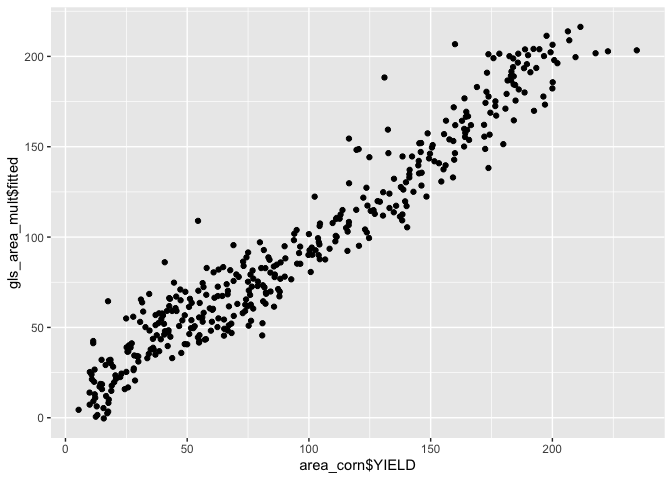
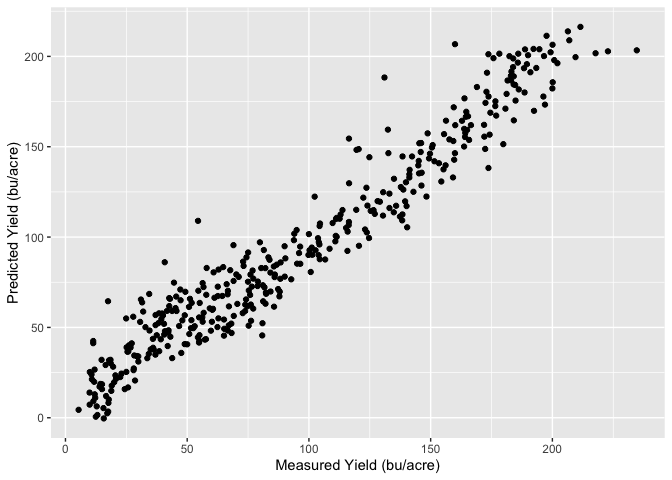
edit the post to make it blog friendly

Changed region(s): [[0.4062, 0.9375, 0.6562, 1.0], [0.0, 0.2812, 0.0312, 0.625]]

diff --git a/content/posts/corn_yields.md b/content/posts/corn_yields.md
@@ -1,5 +1,5 @@
 ---
-title: "Corn Yields"
+title: "US Corn Yields"
 name: corn-yields
 theme: Toha
 date: 2022-03-26
@@ -13,157 +13,116 @@ math: true
 
 ## Summary
 
-I wanted to take a look at corn yields and how they were effected by
-variables in data that I could find. Luckily the
-[USDA](https://quickstats.nass.usda.gov/api) has a relatively extensive
-dataset on crop production and yields by state and also includes
-information such as if the crops were irrigated or not. They have a
-query tool which I used to get the data located in `data/USDA/corn.csv`
-which I reference below and is available in the repo. They also have a
-query tool that I may attempt to make more use of in the future. With
-the data given I wanted to understand how the corn yields have changed
-over time, and given the information I was able to find, what variables
-were important factors for corn yields (what area and if the land was
-irrigated or not).
+Because I grew up on a farm and have always been interested in agriculture, I wanted to take a look at corn yields and how they were effected by variables in data that I could find. Luckily the [USDA](https://quickstats.nass.usda.gov/api) has a relatively extensive dataset on crop production and yields by state and also includes information such as if the crops were irrigated or not. They have a query tool which I used to get the raw data which is also available in this [GitHub repo](https://github.com/murrayrodney/Crop-Yields). They also have an API that I may attempt to make more use of in the future. With the data gathered I wanted to understand how the corn yields have changed over time and what variables were important for corn yields (what area and if the land was irrigated or not).
 
-I will also mention that analyzing this data was a good way for me to
-practice methods that I learned in my regression analysis, so as you see
-a strong focus on linear models in this analysis.
+I would also like also mention that analyzing this data was a good way for me to practice methods that I learned in my regression analysis, hence the strong focus on linear models in this analysis.
 
-## Data Loading
+If you would like to see the code for the analysis, you can go to my [GitHub repo](https://github.com/murrayrodney/Crop-Yields). For this post, I will leave the code out and we will focus on the methodology and results
 
-First I load the data and filter such that we are looking for entries
-related to irrigated (or non-irrigated) grain corn.
+## Data Exploration
 
-Next we do some reprocessing such as separating out the description to
-get the data we need on if it was irrigated or not, and what the measure
-was. Then we pivot the data so it is easier to do some calculations with
-the area and production volumes (bushels).
-
-Next we will plot the production and yield.
+After preparing the data so (splitting strings, and some pivoting) we can take a look at the corn yields for the states which the USDA has data available for. Note that the data I used had production in bushels and acres harvested, which I used to calculate the yield in bushels per acre (bu/acre). The raw data gave these measures for each state per year where I had queried for data after 1950. The data also specified if the grain corn was grown on irrigated or non-irrigated land.
 
 ![image](/posts/corn_yields/unnamed-chunk-5-2.png) 
 
-From
-the two plots above it is amazing to see how the grain production and
-yields have improved over time! Because there are quite a few states, I
-will group some states which I think more alike (places like Wyoming,
-Montana and Idaho vs. Nebraska and Kansas). It is likely that there
-could be other methods used to find groupings which maximize the
-differences between each group of states; this was not used in this
-analysis and I will move forward with my intuition which as you will see
-will be quite subjective). You will also see that I move forward with
-using yields (bu/acre) so that we can get a measure of how efficiently
-we are able to produce corn for a given unit of area.
+From the plot above we can see that the grain corn yields have improved dramatically over time! Because there are quite a few states, I will group some states which I think more alike (places like Wyoming, Montana and Idaho vs. Nebraska and Kansas). It is likely that there could be other methods used to find groupings which maximize the differences between each group of states; this was not used in this analysis as I was focused on regression analysis and I will use my intuition in this case. 
 
-## Data Aggregation
+### Data Aggregation
 
-![](/posts/corn_yields/unnamed-chunk-6-1.png) \###
-Visual analysis Now that we have things grouped, we should note how
-similar the areas are for yields where the land is irrigated after 1980
-while there are some differences prior to 1980. It is also interesting
-to note how different each areas non-irrigated acreage performs (my
-guess would be due to rainfall amounts and potentially temperatures).
-Also note how the yields for the non-irrigated acreage appears
-significantly lower than that of the irrigated acreage, this should not
-be surprising.
+I will group the states according to this table:
 
-Let’s use a linear regression model to see if we can parse out the
-effects of the area, irrigation, and time.
+|    State     |   Area   |
+| :----------: | :------: |
+|   Colorado   | MTN_WEST |
+|   Wyoming    | MTN_WEST |
+|    Idaho     | MTN_WEST |
+|   Montana    | MTN_WEST |
+|  New Mexico  |  SOUTH   |
+|    Texas     |  SOUTH   |
+|   Oklahoma   |  SOUTH   |
+|   Nebraska   | MID_WEST |
+|    Kasas     | MID_WEST |
+| South Dakota | MID_WEST |
+| North Dakota | MID_WEST |
+|   Delaware   |   EAST   |
 
-**Confounders!** Something to be aware of as we move forward is that
-time, or specifically, the year that the corn was planted and harvested
-appears to have a large effect on the yields. There is no physical
-reason why corn with all the same treatments (irrigation, fertilization,
-pest control, etc.) would yield more grain in 2020 in comparison to
-1980. I say this because there are many confounding variables that are
-not present in this data set such as fertilization, pest control, crop
-rotation practices which have increase yields over time as we have
-continually discovered better farming methods to increase the yields of
-our crops. This presents a spurious relationship between the year that
-the crop was planted and harvested and the observed yeilds.
+![](/posts/corn_yields/unnamed-chunk-6-1.png)
 
-## Regression Modeling (OLS)
+Now that we grouped states based on my perceived similarity we can see some of the trends and differences a little easier. We should note how similar the areas are for yields where the land is irrigated after 1980 while there are some differences prior to 1980. It is also interesting to note how different each areas non-irrigated acreage performs (my guess would be due to rainfall amounts and potentially temperatures). Also note how the yields for the non-irrigated acreage appears significantly lower than that of the irrigated acreage, this should not be surprising.  Another observation to take stock of is the short period of time that the Eastern states (really just one - Delaware) have data available for; we could remove this, but I will leave it in for now with the reminder to look at the standard errors in our model. Now let’s use a linear regression model to see if we can parse out the effects of the area, irrigation, and time.
 
-First a linear regression model with the ordinary least squares (OLS)
-method will be fit. In this case our model will look like
+> :warning: **Confounders!** Something to be aware of as we move forward is that time, or specifically, the year that the corn was planted and harvested appears to have a large effect on the yields. There is no physical reason why corn with all the same treatments (irrigation, fertilization, pest control, etc.) would yield more grain in 2020 in comparison to 1980. I say this because there are many confounding variables that are not present in this data set such as fertilizer use, pest control, and crop rotation practices which have increase yields over time as we have continually discovered better farming methods to increase the yields of our crops. This presents a spurious relationship between the year that the crop was planted and harvested and the observed yeilds.
+
+## Ordinary Least Squares (OLS) Regression
+
+When we think of regression, OLS is the method we are typically thinking of. I will start with a simple model which follows the equation written below
 
 $$
-Yield = \beta_0 + \beta_1 Area + \beta_1 Irrigated + \beta_1 Year + \epsilon
+Yield = \beta_0 + \beta_1 Area + \beta_2 Irrigated + \beta_3 Year + \epsilon
 $$
 
-Where the expectation of \\(\epsilon\\) is 0 (\\(E[\epsilon]=0\\)) and the variance of
-\\(\epsilon\\) is \\(\sigma^2\\) (\\(Var(\epsilon)=\sigma^2\\)).
+Where the expectation of \\(\epsilon\\) is 0 (\\(E[\epsilon]=0\\)) and the variance of \\(\epsilon\\) is \\(\sigma^2\\) (\\(Var(\epsilon)=\sigma^2\\)).  
 
+In this case \\(Area\\) is a categorical variable with four levels corresponding to each of the areas listed in the table above. \\(Irrigated\\) is also a categorical variable, but with only two levels equating to `True` and `False`. In R the \\(Area\\) variable will be split into 3 dummy variables each with the values `True` and `False` (we only need n-1 dummys to fully specify n levels in a categorical variable) and a different coefficient will be calculated for each dummy variable. We can also think about our estimates \\(\hat{\beta}_1\\) and  \\(\hat{\beta}_2\\) changing based on the values for \\(Area\\) and  \\(Irrigated\\). Something I will give for you to think about is how the model changes with different values for \\(Area\\) and \\(Irrigated\\) (hint: can we write out several different models?).
 
-Something to notice is that we have not stated anything about the
-distribution of any of the parameters in the model. Two key assumptions
-that we currently have and will have to verify is that our samples are
-independent \\(corr(\epsilon_i, \epsilon_j)=0\\) where \\(i\not=j\\) and the variance is constant.
+Something to notice in the model stated is that we have not yet stated anything about the distribution of any of the parameters in the model, which is okay at this point. Two key assumptions we currently have and will have to verify is that our samples are independent (\\(corr(\epsilon_i, \epsilon_j)=0\\) where \\(i\not=j\\)) and the variance is constant.
 
-With that said you will see summaries of the model which will include
-plenty of t-tests and F-tests on the model and coefficients as well as
-confidence intervals. For these to be valid we need to assume (and
-verify) that our residuals are normally distributed such that \\(\epsilon \sim N(0,\sigma^2)\\).
-
+With that said you will see summaries of the model which will include plenty of t-tests and F-tests on the model and coefficients as well as confidence intervals. For these to be valid we need to assume (and verify) that our residuals are normally distributed such that \\(\epsilon \sim N(0,\sigma^2)\\). 
 ### Additive Model
-![](/posts/corn_yields/unnamed-chunk-7-1.png)![](/posts/corn_yields/unnamed-chunk-7-2.png)![](/posts/corn_yields/unnamed-chunk-7-3.png)![](/posts/corn_yields/unnamed-chunk-7-4.png)
 
+Once I fit the model, we need to take a look at our assumptions, one of the first things to look at is a scatter plot of the residuals vs. the fitted values. Do you see anything worrisome?
 
-![](/posts/corn_yields/unnamed-chunk-7-5.png) From
-the plots above we it appears the model does a reasonable job of
-predicting the yield, however the residual plots show that there
-certainly is room for improvement. We have some trends in the mean of
-the residuals vs. the predicted values and the QQ plot shows that they
-are not normally distributed around the mean. There may also be some
-issues with the assumption around constant variance, and if we look
-closely at the plots above showing the production and yields over time
-we may suspect that the residuals are correlated and not independent.
-This means we’re breaking a lot, if not all, of our assumptions. Lets
-see if we can get in a little better position by allowing the
-categorical variables to have a multiplicative influence instead (so
-they can change the slope of the line) instead of having only an
-additive influence which allows them to only change the intercept.
+![](/posts/corn_yields/unnamed-chunk-7-1.png)
+
+Here it looks to me as if there is a trend in the mean of the residuals, indicating to me that we either need to consider some transformations or other terms in the model. So, our \\(E[\epsilon]=0\\) assumption is not true. It also appears to me that the variance in our residuals is not constant, breaking another assumption. Lets see if our risiduals are normally distributed, we will use a [QQ-plot](https://en.wikipedia.org/wiki/Q%E2%80%93Q_plot) to diagnose this (I would expect the points to lie on a straight line).
+
+![](/posts/corn_yields/unnamed-chunk-7-2.png)
+
+Unfortunately it looks like our points are not quite normally distributed either. Lets see how well we are predicting the yeilds with our current model, to do this I will look at a plot of the predicted yields vs. the measured yields.
+
+![](/posts/corn_yields/unnamed-chunk-7-5.png)
+
+From this plot it looks like our model isn't doing too horrible; we can see some of the effects from our residuals, but if we can take care of our assumptions we appear to be on the right track.
+
+In summary the plots above show the model does a reasonable job of predicting the yield, however the residual plots show that there certainly is room for improvement. We have some trends in the mean of the residuals vs. the predicted values and the QQ plot shows that they are not normally distributed around the mean. There may also be some issues with the assumption around constant variance, and if we look closely at the plots above showing the production and yields over time we may suspect that the residuals are correlated and not independent. This means we’re breaking a lot, if not all, of our assumptions. Lets see if we can get in a little better position by allowing the categorical variables to have a multiplicative influence instead (so they can change the slope of the line) instead of having only an additive influence which allows them to only change the intercept. My hope is this model will help addres some of the trends that we see in our residual plots.
 
 ### Multiplicative model
 
-Luckily R makes it easy to add the multiplicative influence by asking R
-to fit a model with all of the interactions as shown below. As mentioned
-above, this allows for the categorical values to influence not only the
-intercept but also the slope of yield over time.
+Luckily R makes it easy to add the multiplicative influence by asking R to fit a model with all of the interactions as shown below. As mentioned above, this allows for the categorical values to influence not only the intercept but also the slope of yield over time. Now when we write our model out, it looks something more like this:
+$$
+Yield = \beta_0 + \beta_1 Area + \beta_2 Irrigated + \beta_3 Year +
+$$
 
-![](/posts/corn_yields/unnamed-chunk-8-1.png)![](/posts/corn_yields/unnamed-chunk-8-2.png)![](/posts/corn_yields/unnamed-chunk-8-3.png)![](/posts/corn_yields/unnamed-chunk-8-4.png)
+$$
+\beta_4 Area \cdot Irrigated + \beta_5 Area \cdot Year + \beta_6 Irrigated \cdot Year + \epsilon
+$$
+
+Now when we take a look at our residuals vs. fitted values, the trend in the mean is much better (there still is a little bit there, but likely due to the auto-correlation I will discuss later). We do still see non-constant variance which will have to be addressed.
+
+![](/posts/corn_yields/unnamed-chunk-8-1.png)
+
+Our QQ plot while not perfect still looks better.
+
+![](/posts/corn_yields/unnamed-chunk-8-2.png)
+
+It looks like our model is still doing a reasonable job of predicting the yields as well
 
 ![](/posts/corn_yields/unnamed-chunk-8-5.png)
-Things area starting to look a little bit better, we don’t have quite as
-bad of a trend in the mean of our residuals and our QQ-plot while not
-great is looking like we’re getting a little closer to normally
-distributed. With that said we should look into the potential for
-autocorrelation for our groups.
 
-We will look at the autocorrelation by grouping our data then using the
-`acf()` function to look for correlation over time.
+The above plots show that this model better, we don’t have quite as bad of a trend in the mean of our residuals and our QQ-plot while not great is looking like we’re getting a little closer to normally distributed. With that said we should look into the potential for autocorrelation for our groups. In R this could be done with the `acf()` function, which I will have applied to each distinct group (since we want unique time periods to evaluate autocorrelation). 
 
-![](/posts/corn_yields/unnamed-chunk-9-1.png)
+> Note: I did not plot the autocorrelation for the EAST region since there is very little data for that region
 
-![](/posts/corn_yields/unnamed-chunk-9-2.png)
+|                                               |                                               |
+| --------------------------------------------- | --------------------------------------------- |
+| ![](/posts/corn_yields/unnamed-chunk-9-1.png) | ![](/posts/corn_yields/unnamed-chunk-9-2.png) |
+| ![](/posts/corn_yields/unnamed-chunk-9-3.png) | ![](/posts/corn_yields/unnamed-chunk-9-4.png) |
 
-![](/posts/corn_yields/unnamed-chunk-9-3.png)
+As suspected, it looks like we do have some pretty serious auto-correlation issues to deal with; these most definitely cannot be ignored. In order to address this I will use of Generalized Least Squares (GLS).
 
-![](/posts/corn_yields/unnamed-chunk-9-4.png)
+## Generalized Least Squares (GLS)
 
-As suspected, it looks like we do have some pretty serious
-auto-correlation issues to deal with; these most definitely cannot be
-ignored. In order to address this I will use of Generalized Least
-Squares (GLS).
+For the linear regression model above we assumed that \\(\epsilon \sim N(0, \sigma^2) \\), although in reality we have been working with a [multivariate normal distribution](https://en.wikipedia.org/wiki/Multivariate_normal_distribution) where \\(\epsilon \sim N(0, \sigma^2 I) \\) where \\(I\\) is the identity matrix. Writing it in this way and examining the covariance matrix \\(\sigma^2I \\) makes it pretty easy to see the two assumptions (constant variance and no correlation). Below is a an example of what the matrix would look like:
 
-## GLS
-
-For the linear regression model above we assumed that \\(\epsilon \sim N(0, \sigma^2) \\), although in reality we have been working with a multivariate normal distribution where \\(\epsilon \sim N(0, \sigma^2) \\) where \\(I\\) is the identity matrix.
-Writing it in this way and examining the covariance matrix
-\\(\sigma^2I \\) makes it pretty easy to see the two assumptions
-(constant variance and no correlation). Below is a an example of what
-the matrix would look like:
 $$
 \\begin{bmatrix}
 \\sigma^2 & 0  & \\ldots & 0 \\\\
@@ -172,18 +131,7 @@ $$
 0 & 0 & 0 & \\sigma^2
 \\end{bmatrix}
 $$
-However in generalized least squares (GLS), there is no structure to the
-covariance matrix specified, so we can write
-
-\\(\epsilon \sim N(0, \Sigma) \\) where \\(\Sigma \\) is the covariance matrix. In practice this
-give us far more parameters than we have observations (if we have n
-observations then \\(\Sigma \\) is an n x n matrix), so it is very helpful to
-assume some structure for the covariance matrix. For a problem such as
-this we will assume that the residuals follow an *autoregressive process
-of order 1*, in other words the residual for a group is correlated with
-the previously sampled residual (assuming our sampling occurs on an
-regular basis, yearly in this case). Now our covariance matrix will look
-more like this:
+However in generalized least squares (GLS), we can use any structure for the covariance matrix, so we can write \\(\epsilon \sim N(0, \Sigma) \\) where \\(\Sigma \\) is the covariance matrix. In practice this gives us far more parameters than we have observations (if we have n observations then \\(\Sigma \\) is an n x n matrix) if there is no structure specified, so it is very helpful to assume some structure for the covariance matrix. For a problem such as this we will assume that the residuals follow an *autoregressive process of order 1* (as supported in the ACF plots above). In other words the residuals for a group is correlated with the previously sampled residual (assuming our sampling occurs on an regular basis, yearly in this case) from that group. Now our covariance matrix will look more like this:
 
 $$
 \\begin{bmatrix}
@@ -193,46 +141,60 @@ $$
 \\rho^n \\sigma^2 & \\rho^{n-1} \\sigma^2 & \\rho ^{n-2}\\sigma^2 & \\ldots & \\sigma^2 \\\\
 \\end{bmatrix}
 $$
-Where |*ρ*| &lt; 1.
+Where \\(|\rho| < 1\\).
+
+In R this is easy to do with the `gls()` function from the `nlme` library, and we can specify the covariance structure with the model `corAR1()` also from the `nlme` library. Below is the resulting predicted vs. measured value plot as well as the standardized residuals vs. fitted values.
 
 ![](/posts/corn_yields/unnamed-chunk-10-1.png)
 
 ![](/posts/corn_yields/unnamed-chunk-10-2.png)
 
-Now that we’ve used GLS to avoid breaking our assumptions we can see a
-few things: \* From the ANOVA summary on the GLS model, we have strong
-evidence to conclude that the variables are capturing a significant
-amount of variance as shown by the very small p-values \* The 95%
-confidence interval for `Phi1` (nlme’s correlation coefficient, what I
-wrote as *ρ*) does not include 0, so we have strong evidence to conclude
-that there indeed was autocorrelation present in our residuals.
+**Model Summary:**
 
-Interpreting the model is a little more difficult, with the interaction
-parameters, but we can see the -1.285 parameter for Year:NON-IRRIGATED
-more than offsets the addition to the intercept for the non irrigated
-acres in the time periods we’re interested in. For example even in 1950
-(for a MTN\_WEST state) the effect of not having irrigation was -42
-bu/acre (2463 - 1.285 \* 1950), whereas in 2020 it would have been -132
-bu/acre. This is slightly offset in areas such as the MID\_WEST where
-~30 bu/acre was added to the intercept for acreage without irrigation
-(the EAST has even more, but take a look at that standard error!) \*
-Time is a big component! For all of our regions the yield increases by
-&gt; 2 bu/acre/year. As dicussed earlier this is likely due to other
-counfounding variables not accounted for in this analysis.
+|                                     |    Value | Standard Error | t-value |    p-value |
+| ----------------------------------: | -------: | -------------: | ------: | ---------: |
+|                         (Intercept) | -4318.73 |         194.74 |  -22.18 |      0.000 |
+|                                Year |     2.24 |           0.10 |   22.78 |      0.000 |
+|                           areaSOUTH |  -793.42 |         293.92 |   -2.70 |      0.007 |
+|                            areaEAST |  5609.12 |        3414.58 |    1.64 |      0.101 |
+|                        areaMID_WEST |  -454.98 |         237.85 |   -1.91 |      0.057 |
+|              IrrigatedNON-IRRIGATED |  2463.68 |         213.21 |   11.56 |      0.000 |
+|                      Year:areaSOUTH |     0.40 |           0.15 |    2.68 |      0.008 |
+|                       Year:areaEAST |    -2.78 |           1.69 |   -1.64 |      0.102 |
+|                   Year:areaMID_WEST |     0.23 |           0.12 |    1.95 |      0.052 |
+|         Year:IrrigatedNON-IRRIGATED |    -1.29 |           0.11 |  -11.94 |      0.000 |
+|    areaSOUTH:IrrigatedNON-IRRIGATED |    18.72 |           5.82 |    3.22 |      0.001 |
+|     areaEAST:IrrigatedNON-IRRIGATED |    77.04 |          11.22 |    6.87 |      0.000 |
+| areaMID_WEST:IrrigatedNON-IRRIGATED |    29.72 |           5.17 |    5.75 | 0.0000.000 |
 
-As we saw before we can also see each area can have a significant impact
-to the yields. The differences are not nearly as large as that due to
-irrigation, but they are still significant.
 
-# Conclusions
 
-Above we have discussed linear regression, it’s main assumptions, and
-analyzing the residuals to verify those assumptions hold true. We also
-discussed generalized least squares and how we can use that method to
-help address concerns identified from OLS which cannot be addressed
-through other methods such as transformations. We also found that the
-area that corn is being produced from has a significant factor on yields
-as does irrigation. Time was also found to explain a lot of variance in
-the model but we also covered the presence of confounding variables such
-as technology and farming practices that have changed over time and
-helped improve yields.
+**Model ANOVA:**
+
+|                |   DF | F-value | p-value |
+| -------------: | ---: | ------: | ------: |
+|    (Intercept) |    1 |  7618.5 |  <.0001 |
+|           Year |    1 |  1347.3 |  <.0001 |
+|           area |    3 |    36.9 |  <.0001 |
+|      Irrigated |    1 |  1032.5 |  <.0001 |
+|      Year:area |    3 |     3.7 |  0.0113 |
+| Year:Irrigated |    1 |   112.4 |  <.0001 |
+| area:Irrigated |    3 |    21.7 |  <.0001 |
+
+Now that we’ve used GLS to avoid breaking our assumptions we can see a few things: 
+
+* The ANOVA summary on the GLS model shows we have strong evidence to conclude that the variables are capturing a significant amount of variance as shown by the very small p-values.
+* The 95% confidence interval for \\(\rho\\) was [0.278, 0.470] does not include 0, so we have strong evidence to conclude that there indeed was autocorrelation present in our residuals.
+* As mentioned earlier the EAST states (just Delaware) as very little data available, which contributes to the large standard error we see in comparison to the other areas.
+
+Interpreting the model is a little more difficult, with the interaction parameters, but we can see the -1.29 parameter for Year:NON-IRRIGATED more than offsets the addition to the intercept for the non irrigated acres in the time periods we’re interested in. For example even in 1950 (for a MTN\_WEST state) the effect of not having irrigation was -53 bu/acre (2463 - 1.29 \* 1950), whereas in 2020 it would have been -143 bu/acre. This is slightly offset in areas such as the MID\_WEST where ~30 bu/acre was added to the intercept for acreage without irrigation (the EAST has even more, but take a look at that standard error!). 
+
+Also take notice that time is a big component! For all of our regions the yield increases by >2 bu/acre/year. We can see in the ANOVA table that it was also responsible for describing a lot of variance relative the the residuals as evidenced by the very large F-value. As dicussed earlier this is likely due to other counfounding variables not accounted for in this analysis.
+
+As we saw before we can also see each area can have a significant impact to the yields. However, while significant, the differences are not nearly as large as those due to irrigation.
+
+## Conclusions
+
+Above we have discussed linear regression, it’s main assumptions, and analyzing the residuals to verify those assumptions hold true. We also discussed generalized least squares and how we can use that method to help address concerns identified from OLS which cannot be addressed through other methods such as transformations. 
+
+We also found that the area that corn is being produced from has a significant factor on yields as does irrigation. Time was also found to explain a lot of variance in the model but we also covered the presence of confounding variables such as technology and farming practices that have changed over time and helped improve yields.
